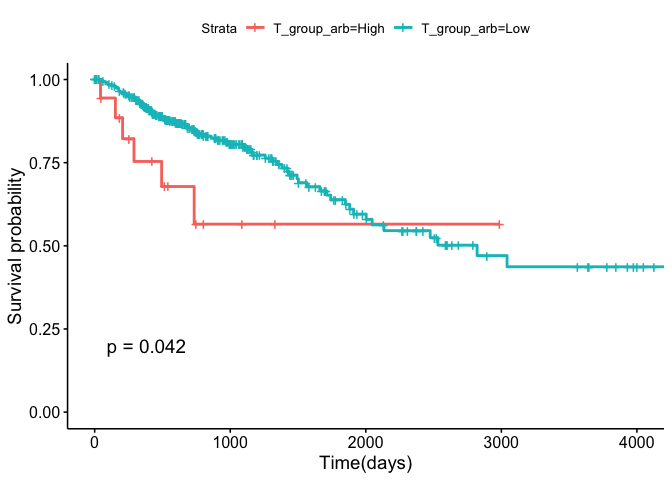
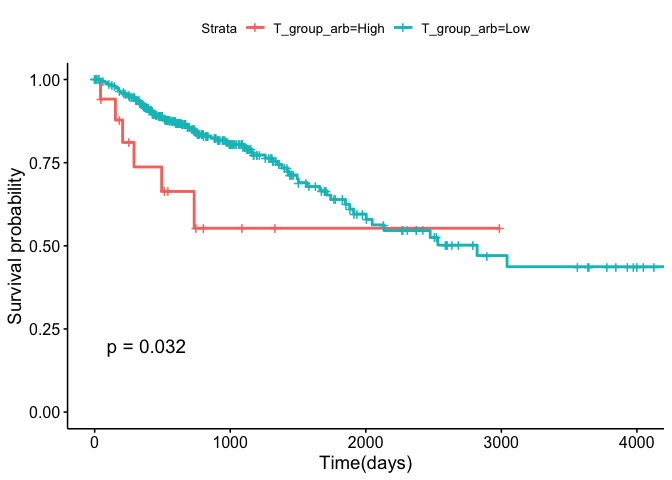
Version to send to Ramsay

diff --git a/kmplots_tbxt.md b/kmplots_tbxt.md
@@ -3,54 +3,10 @@ KM plots based on TBXT mRNA levels
 Helena
 08/09/2020
 
-## Preparation for analysis
-
-Load the data and store it in an object ‘samples’. The data I am using
-was downloaded from the UCSC Xena project. It combines RNASeq data from
-TCGA (cancer tissues) and GTex (normal tissues) via a common
-bioinformatics pipeline - so you can directly compare values from both
-studies.
-
-``` r
-samples <- 
-  read.delim("~/Desktop/crc_prognosis/tcga_target_gtex_colorectal.tsv", 
-             header=TRUE)
-```
-
-Load required packages
-
-``` r
-library(survival)
-library(survminer)
-library(dplyr)
-library(forcats)
-```
-
-## Summary and boxplot
-
-Summarise numbers of samples of each type in the dataset. We are only
-interested in ‘Primary tumor’(which comes from the TCGA dataset) and
-‘Normal Tissue’ (GTex) for the following analyses.
-
-(I have decided not to include the ‘Solid Tissue Normal’ samples in the
-following analyses. These are from the TCGA and are normal samples
-adjacent to some of the tumor samples as opposed to from non-cancer
-patients and therefore not independent data points. I should do a
-boxplot of these vs their primary tumor counterparts though.)
-
-``` r
-count(samples, X_sample_type)
-```
-
-    ##         X_sample_type   n
-    ## 1          Metastatic   1
-    ## 2       Normal Tissue 308
-    ## 3       Primary Tumor 380
-    ## 4     Recurrent Tumor   2
-    ## 5 Solid Tissue Normal  51
+## Boxplot shows distributuon of data
 
 This is a boxplot summarising TBXT mRNA levels in normal colon tissue
-(GTex) vs primary colorectal adenoma.
+(GTex) vs primary colorectal adenoma (TCGA).
 
 ``` r
 normal <- filter(samples, X_sample_type == "Normal Tissue")
@@ -62,7 +18,7 @@ boxplot(normal$T, cancer$T,
         ylab = "T expression (log2(norm_count+1))")
 ```
 
-![](kmplots_tbxt_files/figure-gfm/unnamed-chunk-4-1.png)<!-- -->
+![](kmplots_tbxt_files/figure-gfm/unnamed-chunk-3-1.png)<!-- -->
 
 As you can see from the boxplot although the majority of samples in both
 datasets are similarly distributed with no/ low TBXT mRNA, the cancer
@@ -73,8 +29,9 @@ dataset has more outliers that exhibit higher TBXT expression.
 These analyses define a high Brachyury group and a low Brachyury group,
 look at the relative survival of those groups then test for a
 significant different in survival using a logrank test. You get
-different results depending on how you define the groups. Here I go
-through what the results are for lots of different definitions.
+different results depending on how you define the groups - where you put
+the cut-off between low and high. Here I go through what the results are
+for lots of different definitions.
 
 ## Above the max normal value
 
@@ -99,7 +56,7 @@ fit1 <- survfit(surv_object ~ T_group, data = cancer)
 ggsurvplot(fit1, data = cancer, pval = TRUE, xlab = "Time(days)")
 ```
 
-![](kmplots_tbxt_files/figure-gfm/unnamed-chunk-6-1.png)<!-- -->
+![](kmplots_tbxt_files/figure-gfm/unnamed-chunk-5-1.png)<!-- -->
 
 There appears to be a difference between the groups but it narrowly
 misses significance in the log-rank test. This table shows the number of
@@ -140,7 +97,7 @@ fit1 <- survfit(surv_object ~ T_group_quart, data = cancer)
 ggsurvplot(fit1, data = cancer, pval = TRUE, xlab = "Time(days)")
 ```
 
-![](kmplots_tbxt_files/figure-gfm/unnamed-chunk-9-1.png)<!-- -->
+![](kmplots_tbxt_files/figure-gfm/unnamed-chunk-8-1.png)<!-- -->
 
 ``` r
 fit1
@@ -171,7 +128,7 @@ fit1 <- survfit(surv_object ~ T_group_arb, data = cancer)
 ggsurvplot(fit1, data = cancer, pval = TRUE, xlab = "Time(days)")
 ```
 
-![](kmplots_tbxt_files/figure-gfm/unnamed-chunk-10-1.png)<!-- -->
+![](kmplots_tbxt_files/figure-gfm/unnamed-chunk-9-1.png)<!-- -->
 
 ``` r
 fit1
@@ -199,7 +156,7 @@ fit1 <- survfit(surv_object ~ T_group_arb, data = cancer)
 ggsurvplot(fit1, data = cancer, pval = TRUE, xlab = "Time(days)")
 ```
 
-![](kmplots_tbxt_files/figure-gfm/unnamed-chunk-11-1.png)<!-- -->
+![](kmplots_tbxt_files/figure-gfm/unnamed-chunk-10-1.png)<!-- -->
 
 ``` r
 fit1
@@ -244,7 +201,7 @@ fit1 <- survfit(surv_object ~ T_group_arb, data = cancer)
 ggsurvplot(fit1, data = cancer, pval = TRUE, xlab = "Time(days)")
 ```
 
-![](kmplots_tbxt_files/figure-gfm/unnamed-chunk-12-1.png)<!-- -->
+![](kmplots_tbxt_files/figure-gfm/unnamed-chunk-11-1.png)<!-- -->
 
 ``` r
 fit1
